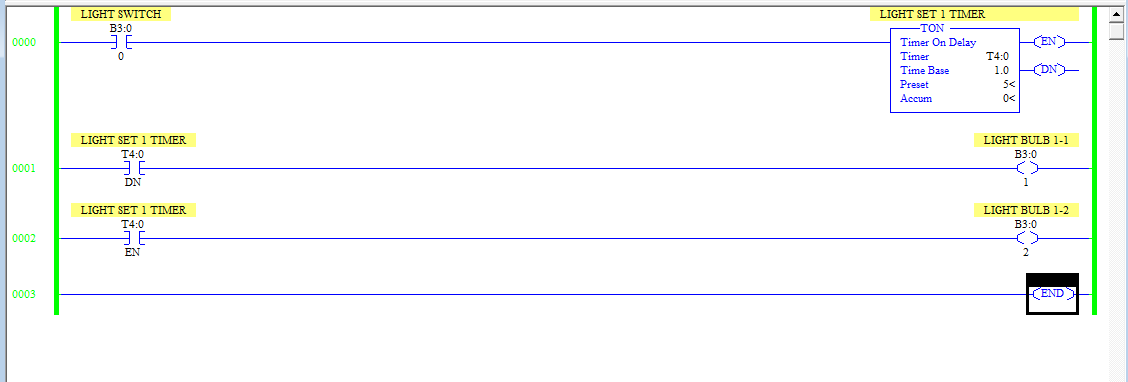
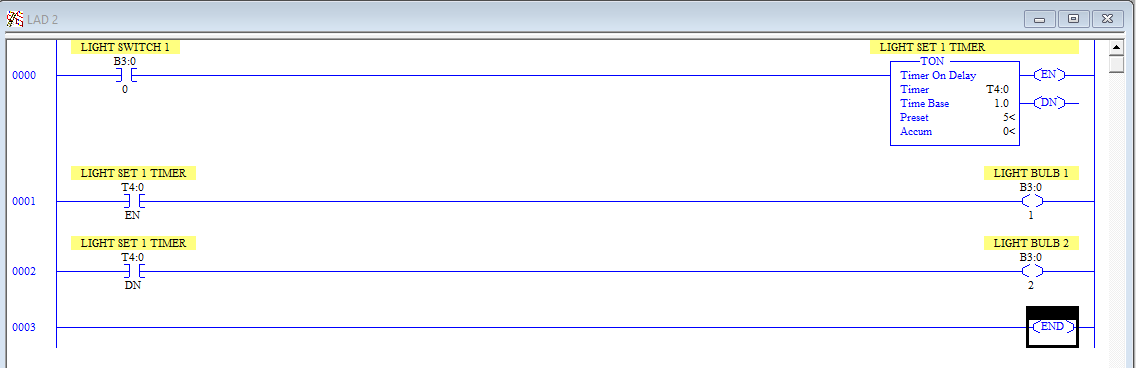
Updated Timers post

Changed region(s): [[0.0, 0.0, 1.0, 1.0]]

diff --git a/src/content/blog/PLC/plc-timers.md b/src/content/blog/PLC/plc-timers.md
@@ -19,9 +19,11 @@ draft: false
 ---
 
 ## TON - Timers [Timer On Delay]
+
 - is one of the most common timer instructions in PLC programming
 
 ### How it works:
+
 - **Input/Enable (`IN` / `EN`)** -> When the input goes from `FALSE (0)` to `TRUE (1)`, the timer starts counting elapsed time.
 - **Accumulated / Elapsed Time (`ET` / `ACC`)** -> Time counts up as long as the input stays true.
 - **Present Time (`PT` / `PRE`)** -> The target delay you configure.
@@ -33,15 +35,26 @@ draft: false
 - **.TT (Timer Timing)** — true while the timer is actively counting (input true, hasn't reached preset yet)
 - **.DN (Done)** — true once accumulated time reaches the preset value
 
-Example of the TON Program
+**Example of the TON Program**  
+so here is what will happen here:
+
+- When the light switch 1 is pressed, the timer will be enabled and start counting.
+- because the timer is enabled, the light bulb 1 will tun on
+- When the Accumulated value qual to the Present value on the timer, Done bit will be activated so it will be true
+- Done bit is true, so the light bulb 2 will now turn on.
+- Until the light switch 1 is false, bulbs will stay on.  
+
+**Everything is done on it own time and after the delay, how cool is that automatically**
 ![PLC Timers Example](/images/blog/Other/timers_example1.png)
 
 ## TOF - Timers [Timer Off Delay]
+
 - delays turning an output **off** after the input goes false — the opposite behavior of a TON
 
 ### How it works:
-- **Input/Enable (`IN`)** -> While `TRUE`, the output is `TRUE` immediately and the timer sits at zero.
-- **Accumulated / Elapsed Time (`ET`)** -> Starts counting the moment the input drops from `TRUE` to `FALSE`.
+
+- **Input/Enable (`IN` / `EN`)** -> While `TRUE`, the output is `TRUE` immediately and the timer sits at zero.
+- **Accumulated / Elapsed Time (`ET` / `ACC`)** -> Starts counting the moment the input drops from `TRUE` to `FALSE`.
 - **Present Time (`PT`)** -> The delay before the output finally turns off.
 - **Output (`Q` / `DN`)** -> Stays `TRUE` for the duration of `PT` after the input goes false, then drops to `FALSE`. If the input goes true again before `PT` elapses, the timer resets and the output simply stays on.
 
@@ -51,12 +64,21 @@ Example of the TON Program
 - **.TT (Timer Timing)** — true while the timer is counting down toward turning the output off (i.e., input is false but PT hasn't been reached yet)
 - **.DN (Done)** — in most platforms this stays true for as long as the output should be on — true while the input is true, AND true during the off-delay countdown; only drops once PT elapses
 
-Example of the TOF Program
-![PLC Timers Example](/images/blog/Other/timers_example2.png)
+**Example of the TOF Program**  
+so here is what will happen here:
+
+- When the light switch 1 is pressed, the timer will be enabled and wont start counting.
+- because the timer is enabled, the light bulb 1 will turn on
+- The count will start immediately when we turn light switch 1 off and `EN` will go to false, causing the light bulb 1 to turn off
+- When the Accumulated value qual to the Present value on the timer, Done bit will be activated so it will be true
+- Done bit is true, so the light bulb 2 will now turn off (depending on the instruction you used, i used the `XIC`).
+
+**Everything is done on it own time and after the delay, how cool is that automatically**
+![PLC Timers Example](/images/blog/Other/TOF_example1.png)
 
 ## Quick Comparison
 
-| Timer | Starts counting when... | Output behavior |
-|-------|--------------------------|------------------|
-| **TON** | Input goes true | Output turns ON after delay, resets immediately if input drops |
-| **TOF** | Input goes false | Output turns OFF after delay, stays ON while input is true |
+| Timer   | Starts counting when... | Output behavior                                                |
+| ------- | ----------------------- | -------------------------------------------------------------- |
+| **TON** | Input goes true         | Output turns ON after delay, resets immediately if input drops |
+| **TOF** | Input goes false        | Output turns OFF after delay, stays ON while input is true     |
